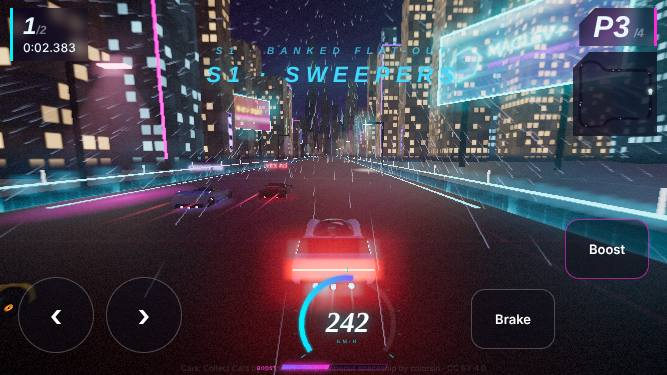
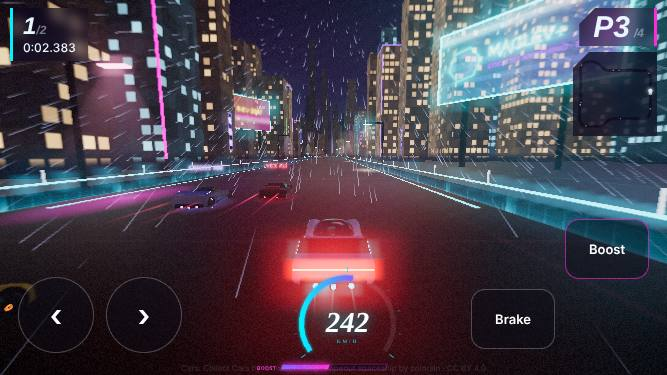
Fix mobile touch controls blocked by invisible cinematic overlay
Touch setup set an inline pointer-events:auto on #cine (z-index 6, above the z-index 5
touch pads), so after the intro the invisible overlay and its #cineMeta/#cineSkip children
took every tap: steer and Brake never registered. Removed the inline style and the duplicate
touch-only #cine handler; #cine and all descendants take input only while #cine.on.

Regression tests use real CDP touch input (not DOM-dispatched events) at 844x390, 852x393,
667x375: hit target at every pad centre, each control held (Brake down=1/up=0) and cleared on
release, multitouch steer+Boost, touchcancel clears. Pre-fix code: 12/12 of these fail
(docs/evidence/e2e-output-m2-touchfix-PREFIX-reproduction.txt). Post-fix: e2e 110/110, unit 30/30.

Claude-Session: https://claude.ai/code/session_01P6sanHKcAomUzGr5NZvDUM

diff --git a/src/client/game.js b/src/client/game.js
@@ -2283,8 +2283,8 @@ if (TOUCH) {
   touchHeld = held;
   touchRelease = () => { tilt.reset(); for (const k in held) held[k] = 0; for (const b of document.querySelectorAll('#touch button')) b.classList.remove('on'); };
   setInterval(() => { const racing = state === 'race' || state === 'countdown'; document.body.classList.toggle('racing', racing); if (racing && !player.autopilot && !paused) keys.up = held.down ? 0 : 1; }, 50);
-  $('cine').addEventListener('pointerdown', () => { if (state === 'intro') endIntro(true); else skipFinishCine(); });
-  $('cine').style.pointerEvents = 'auto';
+  // (M2 fix) no inline pointer-events here: #cine is interactive only while .on (CSS); the
+  // general #cine pointerdown handler above already covers touch.
 }
 
 /* ---------- map switching: dispose the old world (road, collision frames, city, props) and build the new one ---------- */

diff --git a/src/styles.css b/src/styles.css
@@ -297,6 +297,9 @@ body.cinematic #hud{opacity:0;transition:opacity .3s} body.cinematic #fx{opacity
 #cineTag{position:absolute;left:6vw;top:calc(11vh + 14px);font:600 11px Inter,sans-serif;letter-spacing:.12em;text-transform:uppercase;color:rgba(232,246,255,.7);display:none}
 #cine.fin #cineTag{display:block}
 #cine.on{pointer-events:auto;cursor:pointer}
+/* M2 fix: the cinematic overlay (z-index 6, above the z-index 5 touch pads) and its Skip chip must not
+   take input unless the cinematic is actually on (v5b set an inline pointer-events:auto in touch mode). */
+#cine:not(.on),#cine:not(.on) *{pointer-events:none!important}
 #cineSkip{position:absolute;right:20px;bottom:calc(11vh + 14px);pointer-events:auto}
 
 .tiltOnly{display:none} body.touchmode .tiltOnly{display:block}
